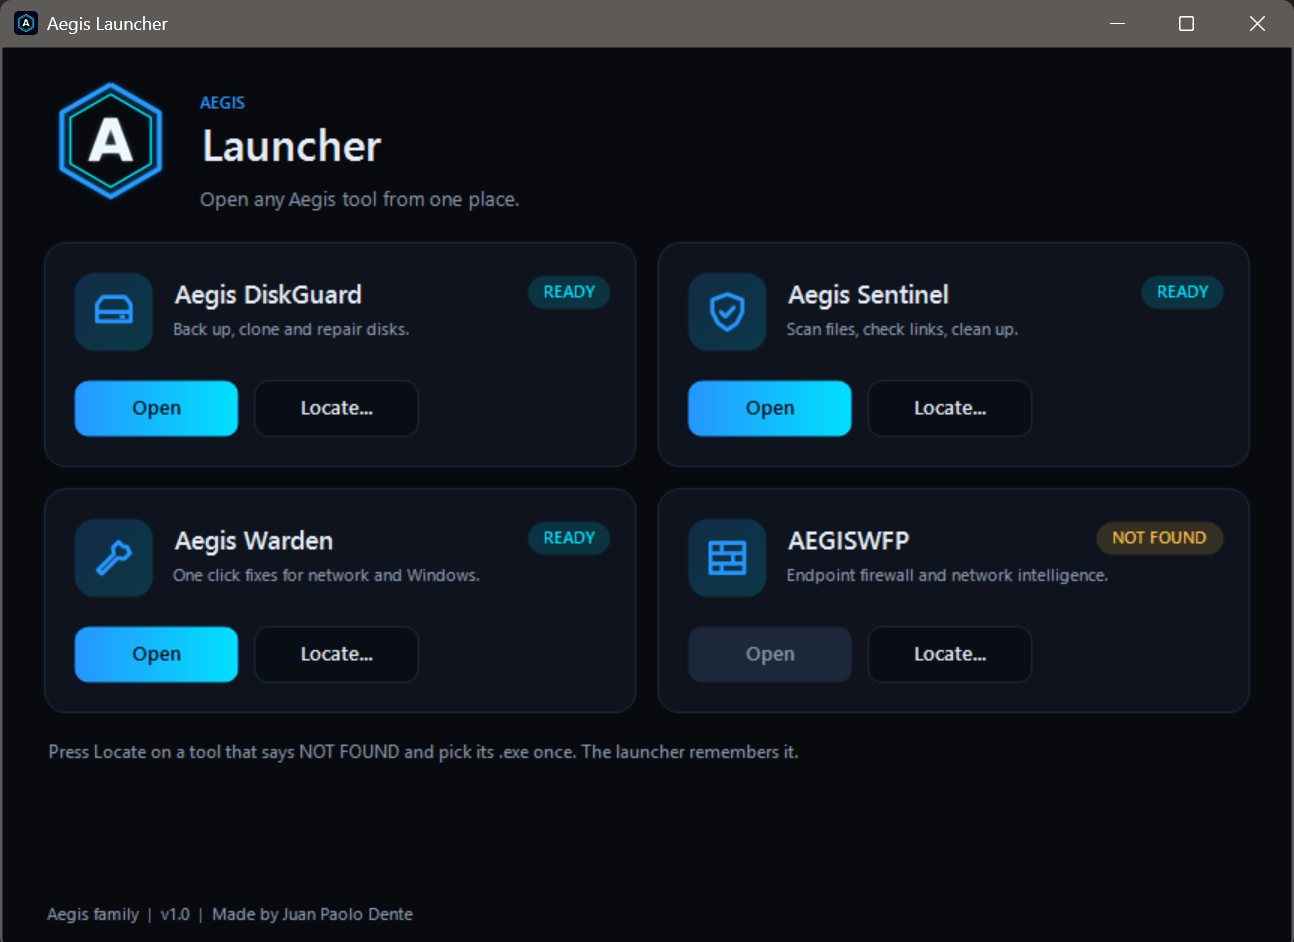
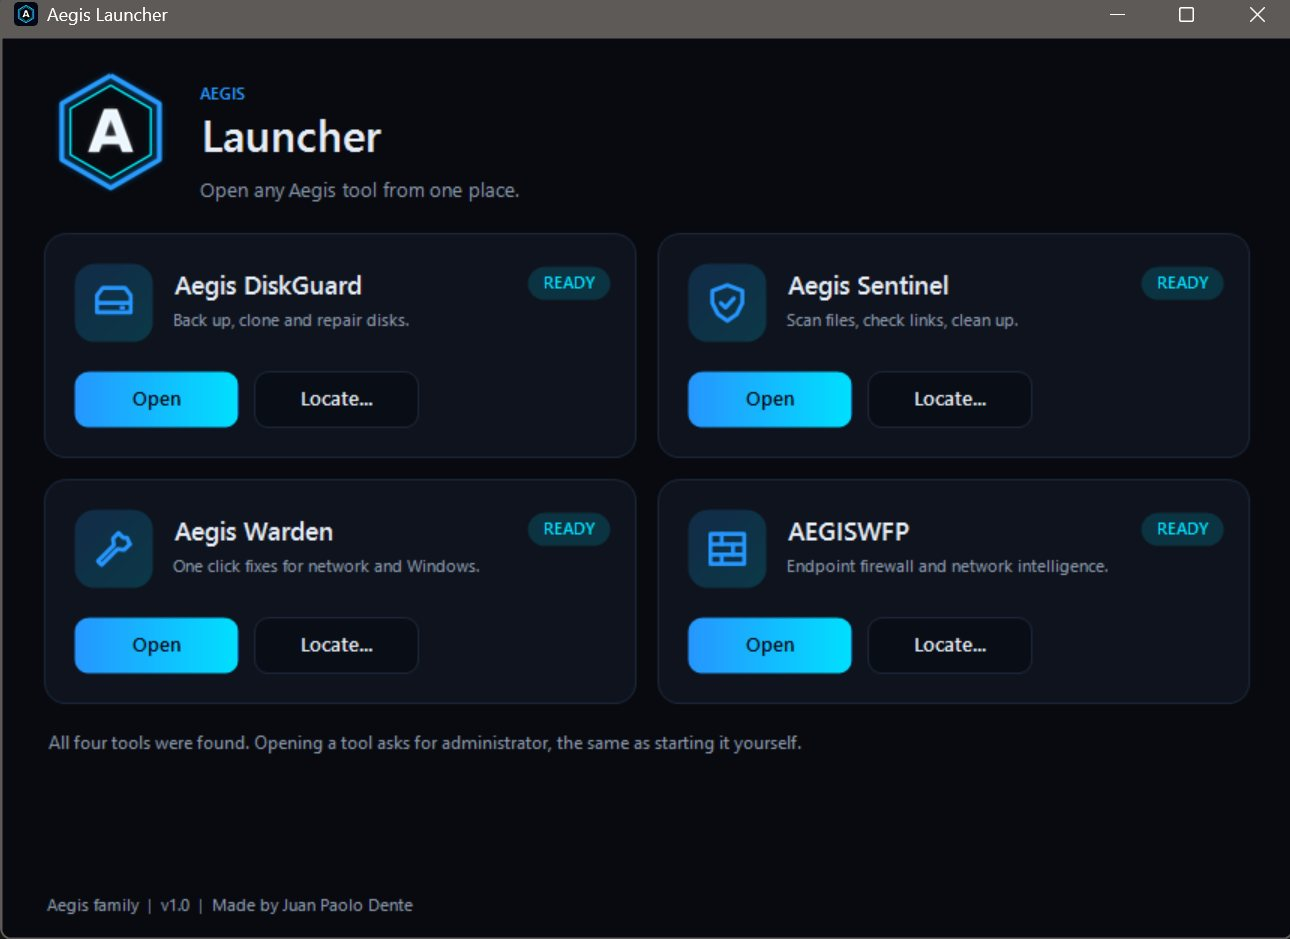
Update Launcher screenshot
Claude-Session: https://claude.ai/code/session_01WgSrjD9bJ6PdLFZKia2iBC

diff --git a/index.html b/index.html
@@ -520,8 +520,8 @@
         </p>
         <div class="shot-row">
           <figure>
-            <picture><source srcset="assets/aegis-launcher.webp" type="image/webp"><img src="assets/aegis-launcher.jpg" alt="Aegis Launcher window with cards for Aegis DiskGuard, Aegis Sentinel and Aegis Warden marked Ready, and AEGISWFP marked Not found, each with Open and Locate buttons" width="1294" height="942" style="aspect-ratio:1294/942" loading="lazy"></picture>
-            <figcaption>Each tool shows READY or NOT FOUND. Press Locate once on a missing tool, pick its .exe, and the launcher remembers it</figcaption>
+            <picture><source srcset="assets/aegis-launcher.webp" type="image/webp"><img src="assets/aegis-launcher.jpg" alt="Aegis Launcher window with Aegis DiskGuard, Aegis Sentinel, Aegis Warden and AEGISWFP all marked Ready, each with Open and Locate buttons" width="1290" height="939" style="aspect-ratio:1290/939" loading="lazy"></picture>
+            <figcaption>All four tools found. A missing tool shows NOT FOUND until you press Locate once and pick its .exe, then the launcher remembers it</figcaption>
           </figure>
         </div>
 
